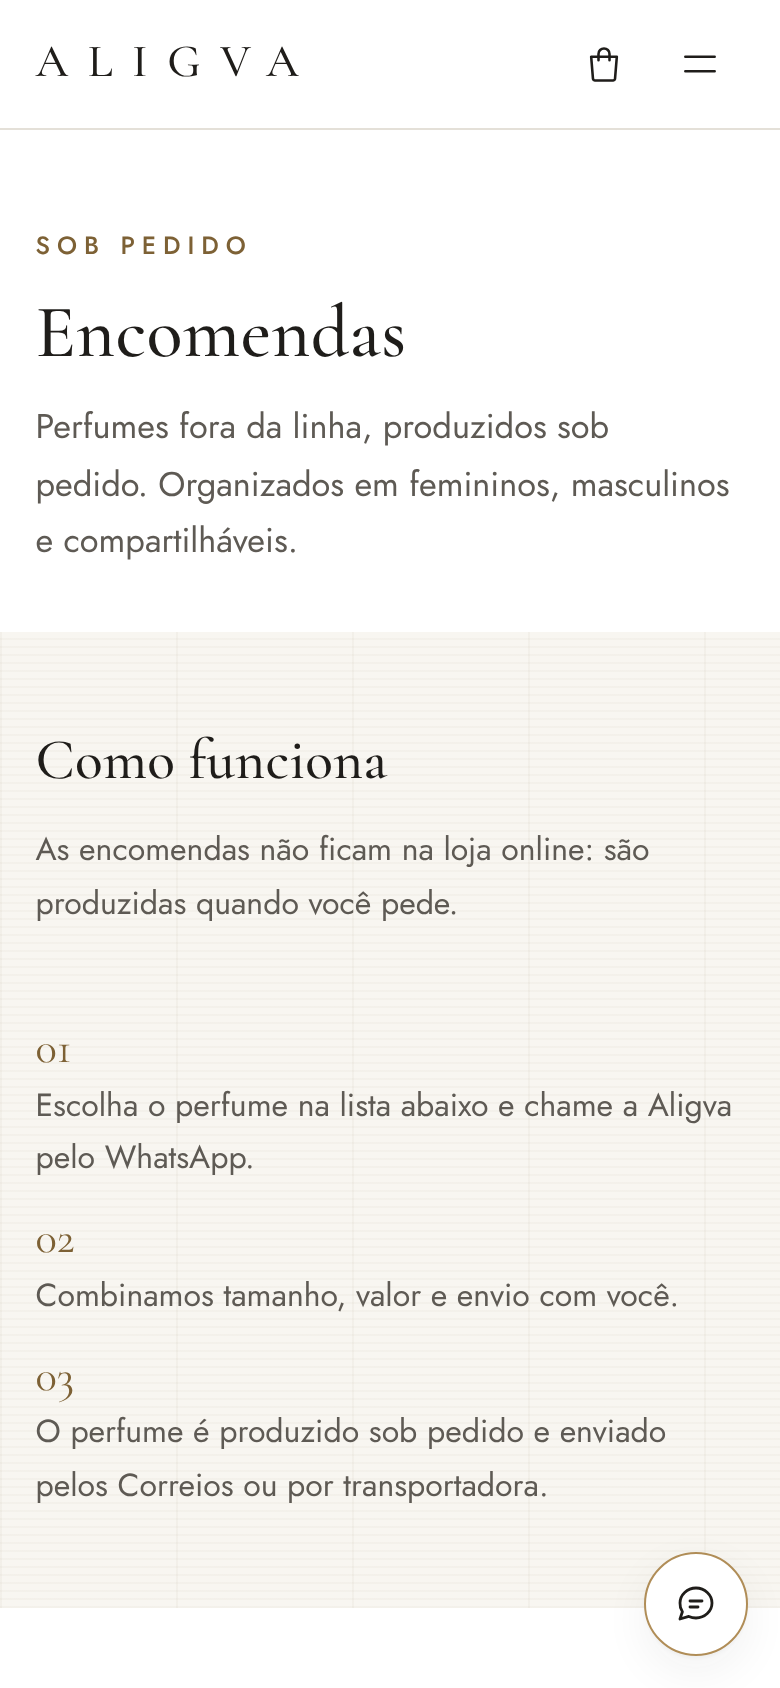
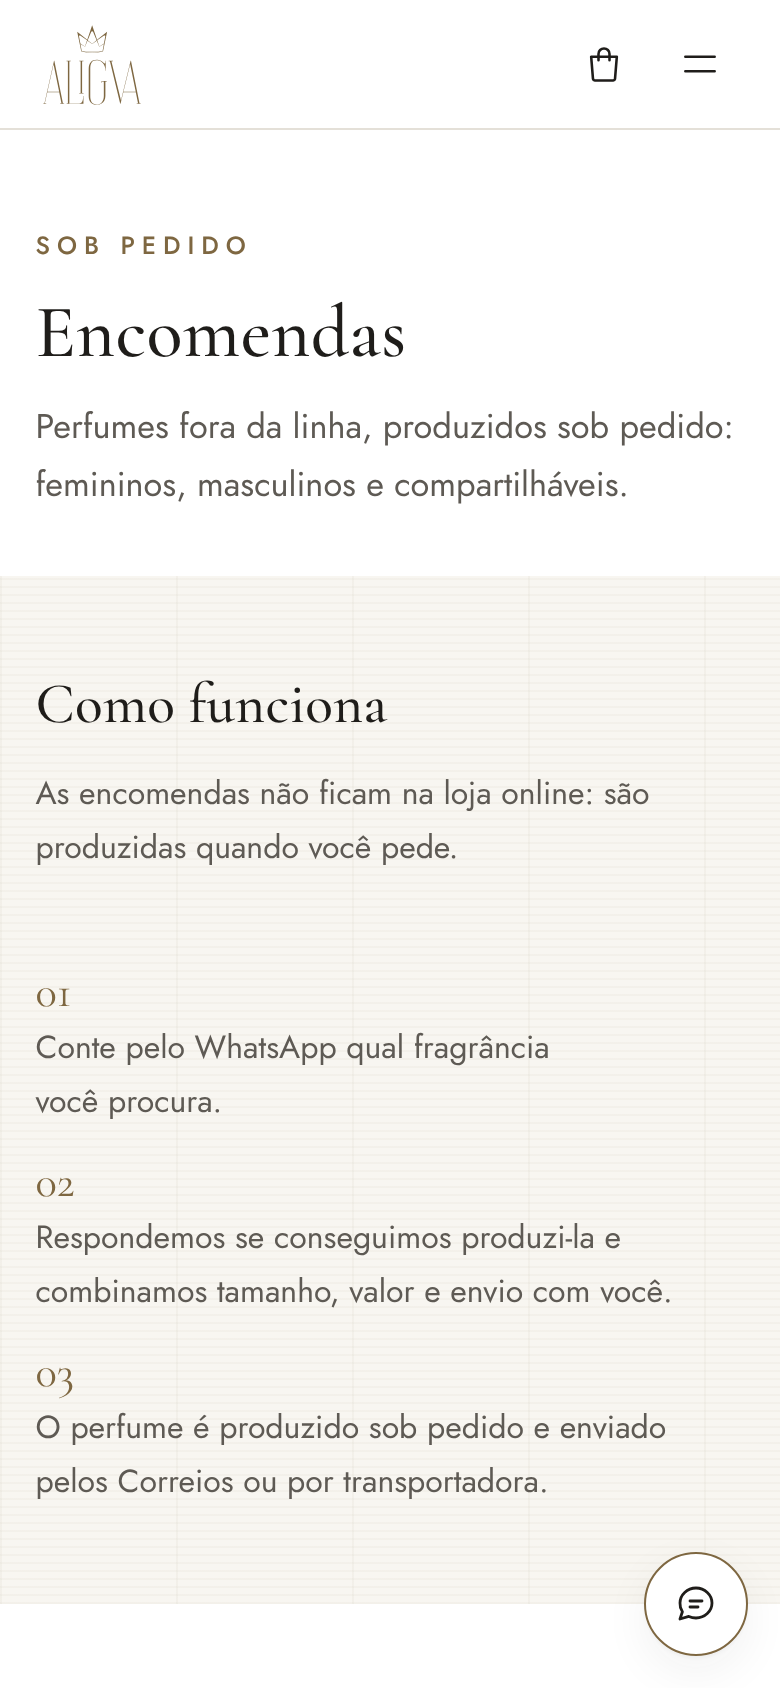
docs: fotos novas, checklist e relatório atualizados
Claude-Session: https://claude.ai/code/session_015zWvsmVm8fsQM3X7xi76u5

diff --git a/CHECKLIST-LANCAMENTO.md b/CHECKLIST-LANCAMENTO.md
@@ -4,9 +4,9 @@ Marque cada item antes de divulgar o catálogo (bio do Instagram, mensagens para
 
 ## Configuração (`src/_data/site.json`)
 
-- [ ] **WhatsApp** (`whatsapp.numero`) no formato `55` + DDD + número, só dígitos. Sem ele, os botões de WhatsApp não aparecem e a sacola envia o pedido por e-mail.
+- [x] **WhatsApp** (`whatsapp.numero`): +55 48 99139-0993.
 - [ ] Mensagem inicial do WhatsApp revisada (`whatsapp.mensagemInicial`).
-- [ ] **Instagram** (`instagram.usuario`), sem @.
+- [x] **Instagram** (`instagram.usuario`): @usealigva.
 - [ ] **Prazo de produção das encomendas** (`linhas.encomendas.prazoProducao`).
 - [ ] Prazo de envio (`envio.prazo`), se fizer sentido mostrar.
 - [ ] Frete grátis: decidir. Deixar `null` (desligado) ou colocar o valor em `freteGratisAcima`.
@@ -23,25 +23,25 @@ Marque cada item antes de divulgar o catálogo (bio do Instagram, mensagens para
 
 ## Produtos (`src/_data/produtos.csv`)
 
-- [ ] Todos os perfumes da Linha Aligva cadastrados (cerca de 33).
-- [ ] Encomendas cadastradas, em femininos, masculinos e compartilháveis.
-- [ ] **Circe:** conferir gênero (cadastrado como `feminino`), família (cadastrada como `floral`), disponibilidade e **preços** (ainda vazios, aparece "Valor sob consulta").
-- [ ] **Preços** conferidos, todos terminando em 9.
+- [x] Todos os perfumes da Linha Aligva cadastrados (34).
+- [x] Encomendas: por enquanto sem lista; a página explica e convida a perguntar pelo WhatsApp. Para listar perfumes depois, cadastre linhas com `linha` = `encomenda`.
+- [x] **Circe:** feminino, floriental, disponível, R$ 109 (50 mL) e R$ 179 (100 mL).
+- [x] **Preços** terminando em 9 (conferidos pela validação). Vale uma última revisão de valores.
 - [ ] Notas olfativas em português (ou nome comercial da matéria-prima).
-- [ ] Coluna `referencia` só com códigos internos curtos, **nunca nomes de outras marcas** (o repositório é público).
-- [ ] **Produtos de exemplo apagados** (linhas com `EXEMPLO` no nome / `exemplo=sim`).
-- [ ] Depois de apagar os exemplos: criar a variável **`PRODUCAO` = `true`** em *Settings → Secrets and variables → Actions → Variables*. Isso impede que um exemplo volte por engano.
+- [x] Coluna `referencia` vazia. Se for usar, só códigos internos curtos, **nunca nomes de outras marcas** (o repositório é público).
+- [x] **Produtos de exemplo apagados.**
+- [x] Modo produção ligado por padrão no deploy: um produto de exemplo publicado por engano impede a publicação.
 - [ ] `link_loja` preenchido nos perfumes que existem na Nuvemshop.
 
 ## Imagens
 
-- [ ] Fotos de cada perfume em `src/assets/produtos/<slug>/` (verticais 4:5, ≥ 1600×2000 px).
-- [ ] Logo em `src/assets/marca/logo.svg` (ou `.png`).
+- [ ] Fotos novas de cada perfume (embalagem nova) em `src/assets/produtos/<slug>/<slug>-100ml.jpg`, `-50ml.jpg`, `-caixa.jpg`. Até lá, o site usa o quadro da marca.
+- [x] Logo e coroa em `src/assets/marca/` (versão 2026 fina, bronze).
 - [ ] (Opcional) foto da abertura e foto do "Sobre".
 
 ## Publicação
 
-- [ ] *Settings → Pages → Source:* **GitHub Actions**.
+- [x] *Settings → Pages → Source:* **GitHub Actions**.
 - [ ] Última publicação em **Actions** com ✅ verde.
 - [ ] Nenhum aviso importante no passo "Validar planilha e configuração".
 - [ ] (Opcional) domínio `catalogo.aligva.com.br` configurado, com **Enforce HTTPS** ativo.

diff --git a/docs/RELATORIO.md b/docs/RELATORIO.md
@@ -46,11 +46,11 @@ A opção 1 apresenta a marca e o diferencial técnico sem falar de preço. Para
 
 O que só os donos podem escrever (fica oculto até ser preenchido): quem são os fundadores, quando e por que a marca começou, como é o processo de produção.
 
-## Pendências para os donos (todos os `PREENCHER` e decisões)
+## Pendências para os donos
+
+Já resolvidos: WhatsApp, Instagram, os 34 perfumes, o Circe, os logos e a remoção dos exemplos. Ainda faltam:
 
 **`src/_data/site.json`**
-- `whatsapp.numero`: número do WhatsApp. Sem ele, os botões de WhatsApp somem e a sacola envia por e-mail.
-- `instagram.usuario`
 - `linhas.encomendas.prazoProducao`: prazo de produção das encomendas
 - `sobre.quemSomos`, `sobre.historia`, `sobre.processo`
 - `envio.prazo`
@@ -60,17 +60,14 @@ O que só os donos podem escrever (fica oculto até ser preenchido): quem são o
 
 **`src/_data/faq.json`**: respostas para prazo das encomendas, formas de pagamento, prazo de entrega e trocas/devoluções.
 
-**`src/_data/produtos.csv`**
-- **Circe:** preços (vazios, aparece "Valor sob consulta"); **gênero** (cadastrei `feminino`, confirmar); **família** (cadastrei `floral`, confirmar); disponibilidade (cadastrei `sim`).
-- Cadastrar os ~33 perfumes da Linha Aligva e as encomendas.
-- Apagar os 5 produtos `EXEMPLO` e depois criar a variável `PRODUCAO=true` no GitHub.
+**`src/_data/produtos.csv`**: marcar `destaque` = `sim` nos perfumes que devem abrir a página inicial (sem nenhum marcado, aparecem os 6 primeiros da coluna `ordem`) e, se quiser, `link_loja` com o link de cada perfume na Nuvemshop.
 
-**Arquivos:** logo (`src/assets/marca/logo.svg`), fotos dos perfumes e, opcionalmente, fotos da abertura e do Sobre.
+**Fotos:** fotos novas com a embalagem nova, no padrão `<slug>-100ml.jpg`, `<slug>-50ml.jpg`, `<slug>-caixa.jpg` (GUIA-DE-EDICAO.md, seção 2).
 
 ## Decisões tomadas por bom senso
 
 - **Fontes:** Cormorant Garamond (títulos), uma serifada de alto contraste, típica da perfumaria de nicho, e Jost (texto), geométrica, limpa e muito legível no celular. Há mecanismo pronto para fontes próprias (`site.json → fontes`).
-- **Paleta:** branco `#FFFFFF`; papel `#F8F6F1` (eco da embalagem vergê); tinta `#1F1D1A` (preto suave e quente); cinza `#5E5A54` (6,9:1); dourado `#B08D57`, só decorativo (3,1:1, nunca em texto); **dourado-texto `#7D6135`** (5,8:1, passa AA) para textos dourados.
+- **Paleta:** branco `#FFFFFF`; papel `#F8F6F1` (eco da embalagem vergê); tinta `#1F1D1A` (preto suave e quente); cinza `#5E5A54` (6,9:1); **bronze `#7E6741`**, tirado do SVG do logotipo, usado como token "dourado" (5,4:1 no branco e 5,0:1 no papel, passa AA também em texto).
 - **Sem WhatsApp configurado**, o pedido sai por e-mail para `atendimento@aligva.com.br`, para o site nunca ficar sem saída.
 - **Sem preço cadastrado**, os dois tamanhos são oferecidos e a mensagem diz "valor a confirmar".
 - **Exclusif:** produtos com `linha=exclusif` são ignorados (com aviso) enquanto a linha estiver "Em breve".

diff --git a/src/assets/produtos/LEIA-ME.md b/src/assets/produtos/LEIA-ME.md
@@ -1,13 +1,15 @@
 # Fotos dos perfumes
 
-Crie uma pasta com o **slug** do perfume (o mesmo da coluna `slug` do CSV) e coloque as fotos dentro:
+Uma pasta por perfume, com o **slug** do CSV, e até três fotos:
 
 ```
-src/assets/produtos/circe/1-frasco.jpg
-src/assets/produtos/circe/2-caixa.jpg
+src/assets/produtos/circe/circe-100ml.jpg   ← principal
+src/assets/produtos/circe/circe-50ml.jpg
+src/assets/produtos/circe/circe-caixa.jpg
 ```
 
-- Formato: JPG (ou PNG/WebP), de preferência **vertical 4:5**, com pelo menos **1600 × 2000 px**.
-- As fotos aparecem em ordem alfabética (por isso o "1-", "2-" no começo do nome), a não ser que a coluna `fotos` do CSV diga outra ordem.
-- O site gera sozinho versões menores e mais leves (AVIF, WebP e JPEG). Não precisa reduzir antes.
-- Use somente fotos próprias da Aligva. Nunca use fotos de frascos ou marcas de terceiros.
+- JPG vertical 4:5, com pelo menos 1600 × 2000 px, fundo claro.
+- Somente fotos próprias da Aligva, com a **embalagem nova**.
+- Sem foto, o site mostra o quadro da marca (coroa, nome e família).
+
+Passo a passo completo no GUIA-DE-EDICAO.md, seção 2.
